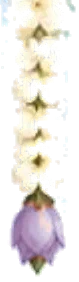
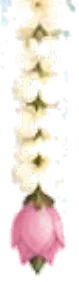
Flowers in the separator lotus's pink: garland buds, wreath, date lotus
The lavender flowers the user pointed at now wear the pink of the
section separators' lotus (#fbd3dc to #e488a2, its line #c76a86):

- the bud hanging at the foot of each jasmine garland on the couple
  arch;
- the two big flowers by the joined hands in the countdown wreath (only
  those: the two largest lavender patches in its lower half; the small
  vine flowers and Shiva's blue hand stay as they were);
- the lotus on the calendar's 12th (lifted, as it was a deep violet, to
  read as light a pink as the separator lotus).

A gradient map by lightness, weighted by how lavender a pixel is, so
each flower keeps its own light and shade, and the leaves, the gold
and the lotus's yellow centre stay.

Changed region(s): [[0.1266, 0.7092, 0.8354, 0.9645]]

diff --git a/README.md b/README.md
@@ -115,7 +115,7 @@ Each section has its own composition, and each hands over to the next.
 | 01→02 | Descent | "Kailash se Mandir" (`Descent.tsx`), scrubbed by the scroll and only vertical: the Save the Date's painting, in two layers (`assets.saveTheDateLayers`), drifts up — the Himalaya slowly and a little to the left, Mahadev and Maa Parvati a little faster — and fades into mist; the blessing panel melts away; three layers of soft cloud pass across at their own speeds and a few petals fall; the couple section's arch rises 60px into place, then its scene as it comes up the screen. The sky behind is one fixed layer, so there is no line between them. On arrival the bells and the two jasmine garlands (`assets.coupleGarlands`) swing once, and the welcome comes in line by line after the arch has settled. Transform and opacity only, all inside the phone on desktop. Reduced motion: none of it — the couple section simply fades in. |
 | 02 | Couple | One screen in the style of the couple's chosen painting, on the site's own sky, starting right where the Save the Date ends (no gap): a carved arch in deep navy (the Blessing Wall button's colour, toned so the carving keeps its depth) hung with white flowers where its leaves were, with jasmine strings and three temple bells that sway gently (`assets.coupleArch`, `assets.coupleBells`); on the sky below the bells, the welcome (`coupleWelcome`) — "Welcome" (स्वागतम् in Hindi), "Dear {guest}," from the link (`?guest=`, `?to=` or `?name=`, max 40 characters; without one, `guest.fallbackName`), 20px with the name in bold at 26px, "you are warmly invited" (or its Hindi), the couple's names stacked, a fine gold line, the hashtag (a tap copies it and shows "Copied"), the date on one line (12 · FEBRUARY · 2027), another gold line and the full venue as a Google Maps link — rising in one by one as the section comes into view; and at the foot (`assets.coupleScene`) palms, petals, hills, a temple by the river, a diya, blue lotuses and the couple offering water to the Shivling — she in soft lavender, he in cool white (the painting's pink and cream recoloured so the section sits with the invitation's Himalayan blue) — always with at least 40px of clear sky above their heads (on a short screen they move lower). Its words follow the Save the Date's EN / हिं switch. It keeps the `#couple` id because "View the Invitation" and the auto-glide land here. |
 | — | Between sections | A ripple of the Ganga (`SectionSeparator`, 72px, edge to edge): a fine wavy line in pale blue and gold with a fainter one behind, on a soft band of the site's mist so each section flows into the next; on it a small floating ornament — lotus (its petals opening and closing, just), diya (its flame flickering) or shankh, by turn — bobbing gently. Once in view the line draws from left to right (0.8s) and the ornament rises in after it; as the guest scrolls the two lines drift a little in opposite ways (±26px / ∓18px). None between the Save the Date and the couple section. Section paddings are small (`--section-gap` 1.25rem) so the ripple takes the place of empty space. Reduced motion: still. |
-| 03 | Countdown | Above: शुभ मुहूर्त, "Countdown Begins", a fine gold line and the date — the eyebrow and the date in a deep antique gold (#7A561C), the date at 14px, to read on the pale sky in sunlight. Then the couple's wreath (`assets.countdownWreath`), made over for Shiv–Parvati: its travel and café icons replaced with watercolour icons in its own palette — trishul, damru, bilva patra and diya on the left, ghanti, kalash, shankh and a rudraksha mala on the right, each level with its pair — and the ring closed beneath by a leafy vine running behind the mountain and the joined hands (made by `scratchpad/wreath/compose.cjs`: old icons taken out, the vines kept). Inside it, the wedding's month as a calendar (made from the date), raised so the 28th clears the mountain's peak by 19px+; on the wedding day the watercolour blue lotus (its reds, like the wreath's pink roses, recoloured to lavender-blue for a cool palette) blooms under a white 12, clear of the 11th and 13th, breathing with a soft gold glow (2.6s). The clouds part as it appears. Under it, "Hamare vivah mein baaki hain" in the section's italic, then the row: the days large in navy turning gold, hours, minutes and seconds a little smaller; labels in English over Hindi (DAYS / दिन …), tabular digits. The first time it is seen the numbers count up from zero (1s); then each digit rolls on its own as it changes (300ms), and a small gold bead beats by the seconds. Always to 12 February 2027, 7:30 PM at the venue (IST), whatever the guest's time zone; on the day "Aaj Hamara Vivah Hai", afterwards "Shubh Vivah" — "Thank you for blessing us." EN / हिं switches its words. Reduced motion: no count-up, no roll, nothing pulses — fades only. |
+| 03 | Countdown | Above: शुभ मुहूर्त, "Countdown Begins", a fine gold line and the date — the eyebrow and the date in a deep antique gold (#7A561C), the date at 14px, to read on the pale sky in sunlight. Then the couple's wreath (`assets.countdownWreath`), made over for Shiv–Parvati: its travel and café icons replaced with watercolour icons in its own palette — trishul, damru, bilva patra and diya on the left, ghanti, kalash, shankh and a rudraksha mala on the right, each level with its pair — and the ring closed beneath by a leafy vine running behind the mountain and the joined hands (made by `scratchpad/wreath/compose.cjs`: old icons taken out, the vines kept). Inside it, the wedding's month as a calendar (made from the date), raised so the 28th clears the mountain's peak by 19px+; on the wedding day the watercolour lotus, in the separator lotus's soft pink (as are the two big flowers by the wreath's joined hands and the buds at the foot of the couple arch's jasmine garlands), blooms under a white 12, clear of the 11th and 13th, breathing with a soft gold glow (2.6s). The clouds part as it appears. Under it, "Hamare vivah mein baaki hain" in the section's italic, then the row: the days large in navy turning gold, hours, minutes and seconds a little smaller; labels in English over Hindi (DAYS / दिन …), tabular digits. The first time it is seen the numbers count up from zero (1s); then each digit rolls on its own as it changes (300ms), and a small gold bead beats by the seconds. Always to 12 February 2027, 7:30 PM at the venue (IST), whatever the guest's time zone; on the day "Aaj Hamara Vivah Hai", afterwards "Shubh Vivah" — "Thank you for blessing us." EN / हिं switches its words. Reduced motion: no count-up, no roll, nothing pulses — fades only. |
 | 05 | Wedding Events | "Wedding Events" and its quote above the couple's gold temple arch (`assets.eventsArch`), its blue lotuses (recoloured from pink for a cool palette), banana leaves, music and elephant all still. Inside the arch, one ceremony at a time (`events.list`: name, date, time, venue, dress code, the couple dressed for it — cut-outs in `public/art/events/` — and an optional artist credit); all sized to the arch's own width, so it fits the same on every phone. The venue is a small ivory button with a fine gold edge (pin, place, a small arrow out): a tap opens the place in Google Maps (the main venue's own `venue.mapsUrl` when set). To the next: a tap on the arch, a swipe left, or › under it (‹ or a swipe right for the one before; the arrow keys too); after the last, the first. Between the arrows, gold progress marks (the one shown a short gold bar; a tap goes straight to one), and under them "Tap the arch frame to see the events" (`events.hint`). The change (0.8s, ease-in-out; taps meanwhile are ignored): the ceremony shown fades out, its picture easing down to 97% (0.3s); a small gold ornament — a lotus bud between two tendrils — glimmers where the couple stood; the next picture fades in from 96% to 100% (0.45s) and its words rise softly in just after; the marks move at once. The words never move up or down. Reduced motion: a short crossfade, no ornament. The dates, times, venues and dress codes are SAMPLES. |
 | 06 | Family | Temple bells hang from the section's top corners (fine antique-gold threads, alike on both sides; they drop in and settle with one small swing). "Two Families, One Celebration", "With Their Blessings" and its line, then a small gold lotus rule. Each family in the peacock frame (`assets.familyFrame`: gold pillars crowned with gold scrolls, a peacock on each pillar — its white made transparent, its bright yellow gold toned to the site's antique gold and the peacocks' blues and teals calmed so it sits with the palette; the copy now in the project carries the stock site's watermark, so replace it with the licensed file), its photograph (`family.sides[].photo`, 4:5) between the peacocks with an arched top and a fine gold edge, the peacocks just in front of it; then, together in one fine gold frame laid on its side (drawn in SVG after the couple's reference: one gold line, a little gold flower and curls at each corner, a faint ivory ground), the family's name and all its members (relation in gold capitals, the names beneath). One above the other at every width (side by side the frames would stand upright), a lotus rule between. A faint temple at the foot. The frame appears, then the photograph within it, then the names; the two sides take turns. |
 | 07 | Gallery | A heart-shaped collage under "Moments to Remember", "Our Gallery" and the quote (26px below it): 14 photos of different sizes (5 of the 9 twice, once as a close-up) with the same thin antique-gold gap between all of them (0.9cqw), filling a double gold heart line wreathed in eucalyptus (`gallery.heartFrame`, the couple's picture: its white keyed away so the watercolour stays translucent, the green leaves recoloured a dusty Shiva blue, the copper gold toned toward the site's antique gold): each tile is clipped to the inner line's opening, traced from the picture (where leaves hide the line, drawn a little further in), the frame lying behind the photos (its leaves tuck behind the heart and never hide a photo), a thin gold rim round the heart's edge; the whole is centred (the opening nudged right, as the leaves reach out to the left and up) and stays within the screen (the opening up to 400px), sized in its own width units so a real phone and the desktop's phone match. Seen the first time, the tiles fly in from random edges (turned up to ±15°, 70ms apart, a little spring, ~1.4s); then the heart beats now and then, barely (a soft double beat to 1.012, every 3.2s). 3D: 900px perspective, each tile lifted 0–40px by its size (large back, small front) and drawn back to its place at rest; it tilts up to ±8° with the gyroscope (Android at once; an iPhone asks on the first tap, and until allowed — or if refused — a sideways drag tilts it), or toward the mouse in the desktop's phone. A tap opens a lightbox: the whole photo grows out of its tile onto a night-blue veil, with its caption and ‹ 2 / 9 › — a swipe sideways, the arrows or the arrow keys go through all nine photos once each; a swipe down, ×, a tap on the veil or Escape closes it back into a tile showing it (focus and scroll position kept). "Tap a photo" shows until the first tap. With more photos than tiles, every 3s one tile turns over (rotateY 180°) to one not shown — one at a time, not while the lightbox is open or the heart is tilting. Thumbnails lazy-load; the full photo loads in the lightbox. Transform and opacity (a filter for the shadows). Reduced motion or a slow phone: no tilt, turning or beat; tiles fade in where they are; the lightbox fades. |
